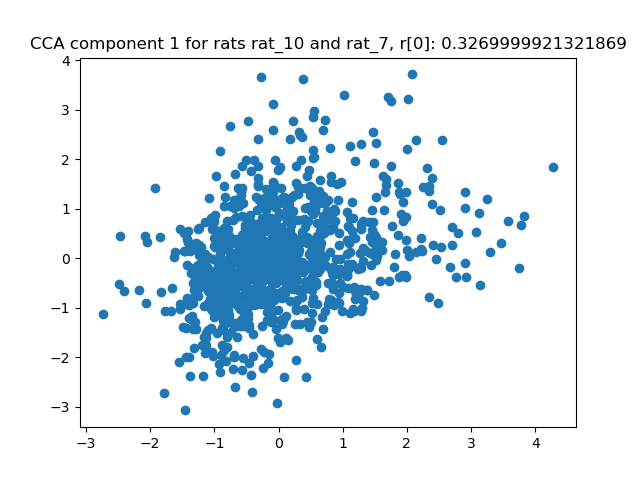
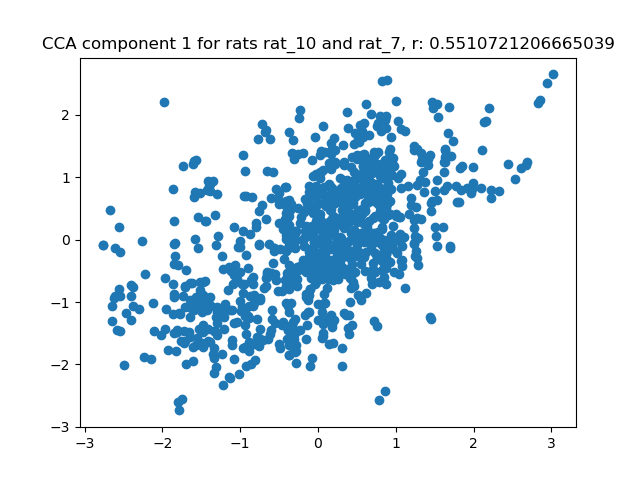
adding procrustes alignment

diff --git a/run_cca/align_rats_cca.py b/run_cca/align_rats_cca.py
@@ -17,6 +17,7 @@ from manifold_neural.helpers import cca_tools
 from manifold_neural.helpers import visualisation
 from numpy import mean, std, var, sqrt
 import scipy.linalg as linalg
+from scipy.spatial import procrustes
 
 
 
@@ -456,6 +457,10 @@ def run_cca_on_rat_data(data_store, param_dict, fold_store):
 
                 #apply cca to the reduced data
                 A, B, r, U, V = cca_tools.canoncorr(X_test_reduced_1, X_test_reduced_2, fullReturn=True)
+                data_1, data2, disparity = procrustes(X_test_reduced_1, X_test_reduced_2)
+                tss = np.sum((X_test_reduced_1 - np.mean(X_test_reduced_1, axis=0)) ** 2)
+                r_squared_procrustes = 1 - disparity / tss
+
                 #get the mean of the correlation coefficients
                 avg_corr = np.mean(r)
 
@@ -469,7 +474,7 @@ def run_cca_on_rat_data(data_store, param_dict, fold_store):
                 # avg_corr = np.mean(correlation)
                 print(f'The average correlation coefficient is {avg_corr} between rats: {rat_id_1} and {rat_id_2}')
                 #add the correlation coefficient to a dictionary
-                corr_dict[rat_id_1 + '_' + rat_id_2] = r
+                corr_dict[rat_id_1 + '_' + rat_id_2] = r_squared_procrustes
 
                 #for each pair plot the resultant data
                 fig, ax = plt.subplots(1, 1)
@@ -532,7 +537,7 @@ def run_cca_on_rat_data(data_store, param_dict, fold_store):
 
 
 
-    return
+    return corr_dict
 
 def run_gcca_on_rat_data(data_store, param_dict, fold_store):
     regressor_kwargs = {'n_neighbors': 70}

diff --git a/plot_umap_decoding_results/plot_umap_embedding_allvars_100and250msbin.py b/plot_umap_decoding_results/plot_umap_embedding_allvars_100and250msbin.py
@@ -352,9 +352,16 @@ def run_umap_pipeline_across_rats():
             # remove those neurons
             spike_data_copy = spike_data_copy[:, np.abs(np.std(spike_data_copy, axis=0)) >= tolerance]
 
-        # X_for_umap, removed_indices = tools.apply_lfads_smoothing(spike_data_copy)
+        X_for_umap_smoothed, removed_indices = tools.apply_lfads_smoothing(spike_data_copy)
         X_for_umap = spike_data_copy
         X_for_umap = scipy.stats.zscore(X_for_umap, axis=0)
+        # X_for_umap_smoothed = scipy.stats.zscore(X_for_umap_smoothed, axis=0)
+        # #plot the X_for_umap_smoothed and X_for_umap
+        # fig, ax = plt.subplots()
+        # ax.plot(X_for_umap_smoothed[:, 10], label='smoothed', alpha=0.5)
+        # ax.plot(X_for_umap[removed_indices[-1]:, 10], label='unsmoothed', alpha =0.5)
+        # ax.legend()
+        # plt.show()
 
 
         labels_for_umap = labels
